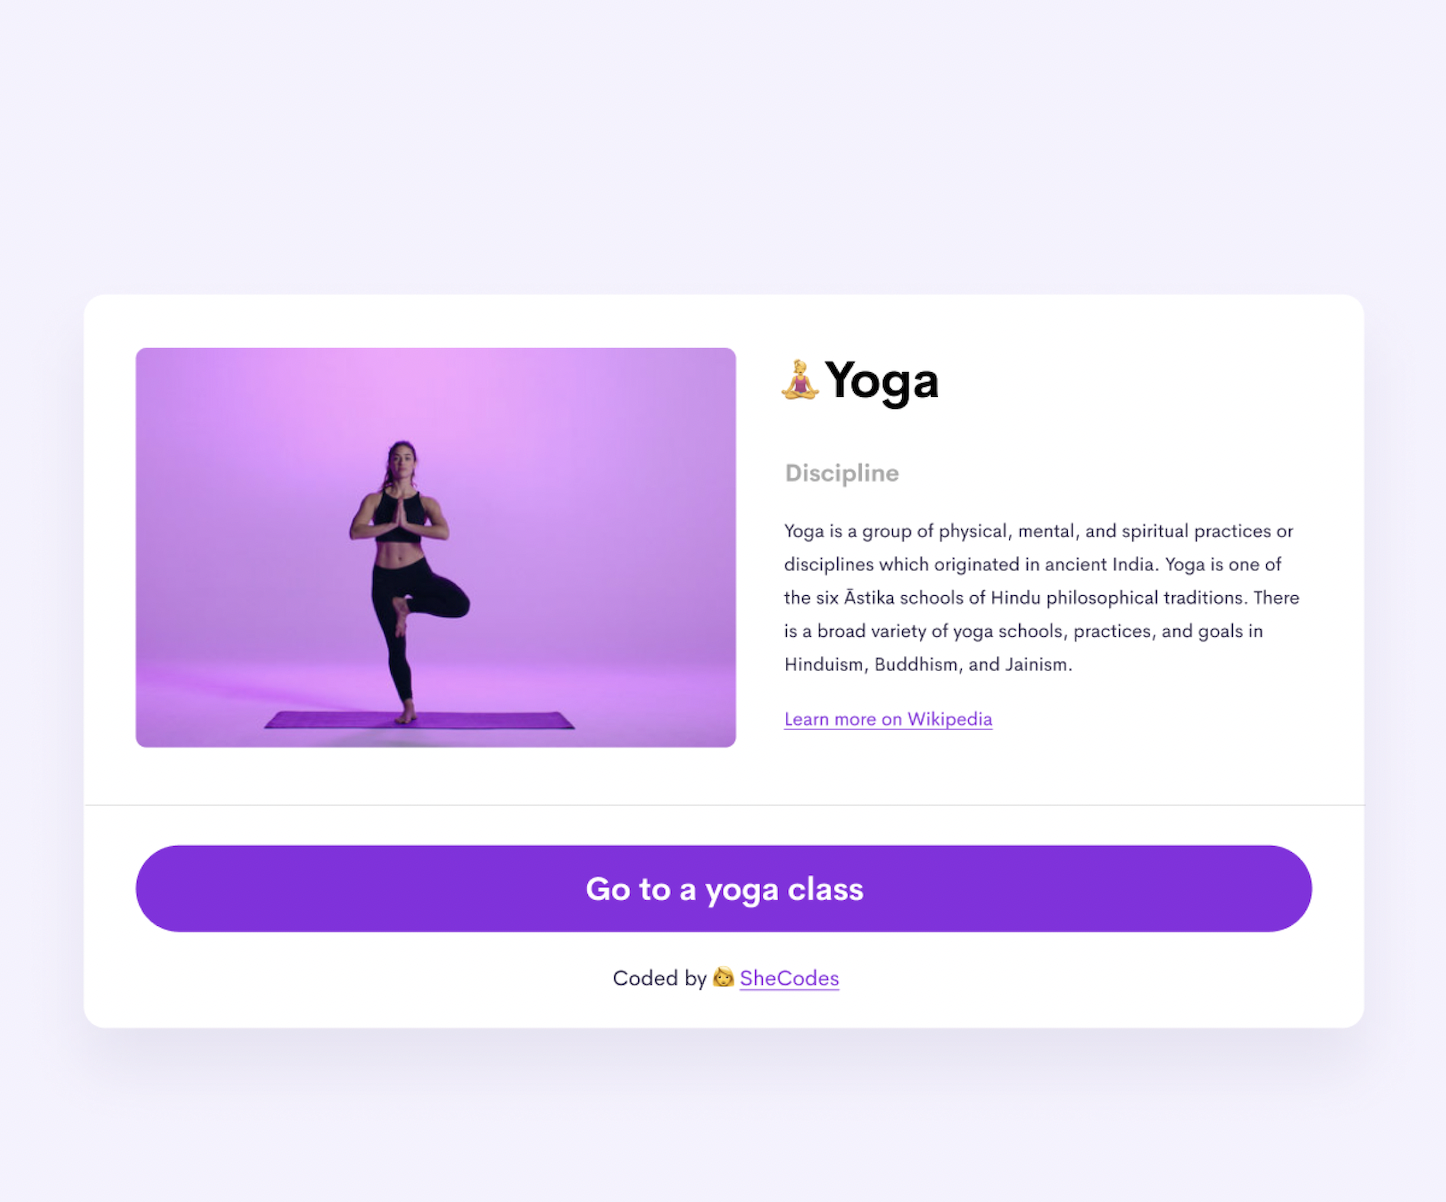
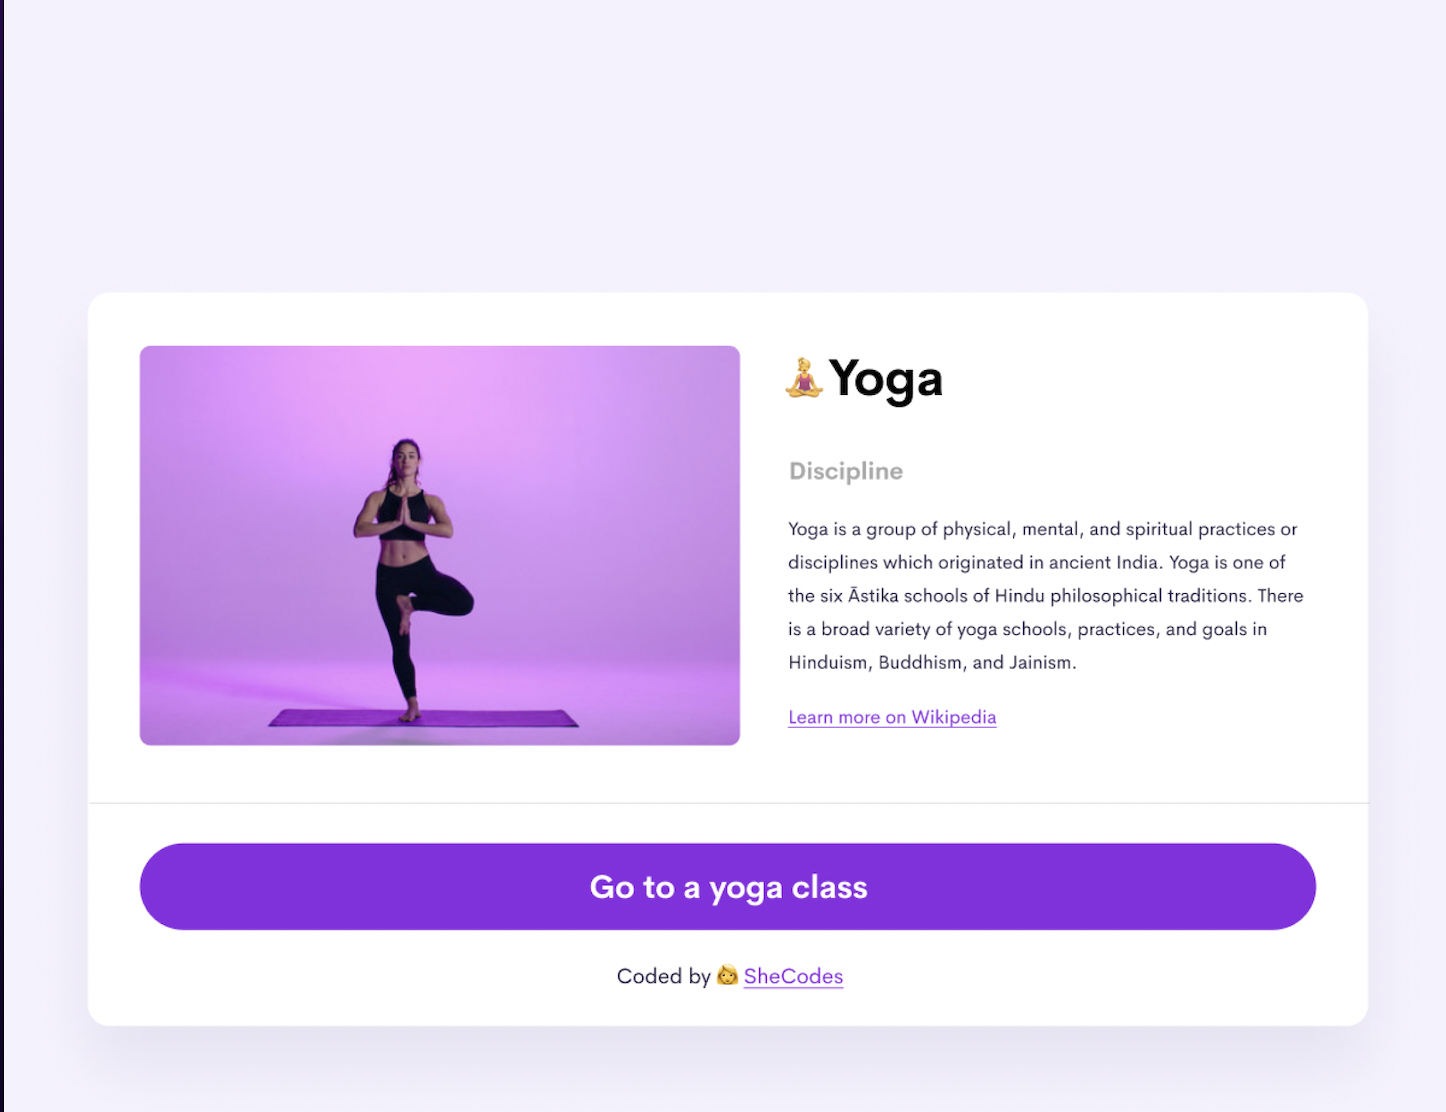
added styling and utility css classes

Changed region(s): [[0.0934, 0.2752, 0.9025, 0.6727], [0.0934, 0.7032, 0.9336, 0.8867], [0.4357, 0.5504, 0.4668, 0.5809]]

diff --git a/index.html b/index.html
@@ -51,10 +51,10 @@
         </div>
       </div>
     </nav>
-    <h2 id="start-page">👋🏼Hi, I am</h2>
+    <h2 id="start-page" class="pt-4">👋🏼Hi, I am</h2>
     <h1>Oryna Iastremska</h1>
     <h3>🇺🇦Front-end developer, based in Europe</h3>
-    <div class="navigation-links">
+    <div class="navigation-links pb-5">
       <a href="about-me.html#contact-me">Contact me</a>
       <a href="about-me.html">About me</a>
     </div>
@@ -72,7 +72,7 @@
             eos eveniet alias temporibus deserunt veritatis minima fugiat
             explicabo eum dolore.
           </p>
-          <div class="navigation-links">
+          <div class="navigation-links pb-4">
             <a href="index.html#start-page">Launch Angels numbers app</a>
           </div>
         </div>
@@ -87,7 +87,7 @@
             eos eveniet alias temporibus deserunt veritatis minima fugiat
             explicabo eum dolore.
           </p>
-          <div class="navigation-links">
+          <div class="navigation-links pb-4">
             <a href="index.html#start-page">Launch Weather app</a>
           </div>
         </div>
@@ -108,7 +108,7 @@
             eos eveniet alias temporibus deserunt veritatis minima fugiat
             explicabo eum dolore.
           </p>
-          <div class="navigation-links">
+          <div class="navigation-links pb-4">
             <a href="index.html#start-page">Launch Yoga app</a>
           </div>
         </div>

diff --git a/src/styles.css b/src/styles.css
@@ -8,6 +8,7 @@
   --accent-color: #6639a6;
   --btn-color: #fac0e1;
   --navbar-background-color: #f5c7f7;
+  --highlight-color: #b063c1;
 }
 body {
   background: var(--gradient);
@@ -50,6 +51,11 @@ p .about-me-p {
   line-height: 1.5;
   text-align: center;
 }
+img {
+  background-color: var(--btn-color);
+  border: 1px solid var(--navbar-background-color);
+  padding: 10px;
+}
 .navigation-links {
   display: flex;
   justify-content: space-evenly;
@@ -68,17 +74,21 @@ p .about-me-p {
   font-size: 17px;
 }
 .about-paragraphs {
-  display: flex;
+  display: block;
+  color: var(--highlight-color);
+  font-size: 20px;
   margin: 30px 0;
+  padding: 20px;
 }
-.about-paragraphs p {
-  margin: 10px;
-}
+
 .navbar-background-color {
   background-color: var(--btn-color);
 }
 .homepage-h1 {
-  font-size: 20px;
+  font-weight: 700;
+  font-size: 30px;
+  padding-bottom: 15px;
+  font-family: Georgia, "Times New Roman", Times, serif;
 }
 .homepage-p {
   color: #521262;

diff --git a/about-me.html b/about-me.html
@@ -53,10 +53,10 @@
       </div>
     </nav>
 
-    <h1>About me</h1>
+    <h1 class="pt-4">About me</h1>
     <h3>Front-end developer from Kherson, Ukraine</h3>
     <div class="about-paragraphs">
-      <p class="about-me-p">
+      <p>
         Lorem ipsum dolor sit amet, consectetur adipisicing elit. Numquam
         aperiam provident tempora? Cumque adipisci, non dolorem quia, odit qui
         alias veniam excepturi rem dolor fugit dignissimos, sed voluptatum
@@ -76,9 +76,11 @@
         </div>
       </div>
     </div>
-    <div id="contact-me">
+    <div id="contact-me" class="pt-3">
       <h2>📨Contact me</h2>
-      <a href="mailto:yastremskaya.01@gmail.com">yastremskaya.01@gmail.com</a>
+      <a href="mailto:yastremskaya.01@gmail.com" class="pb-2"
+        >yastremskaya.01@gmail.com</a
+      >
     </div>
   </body>
 </html>
